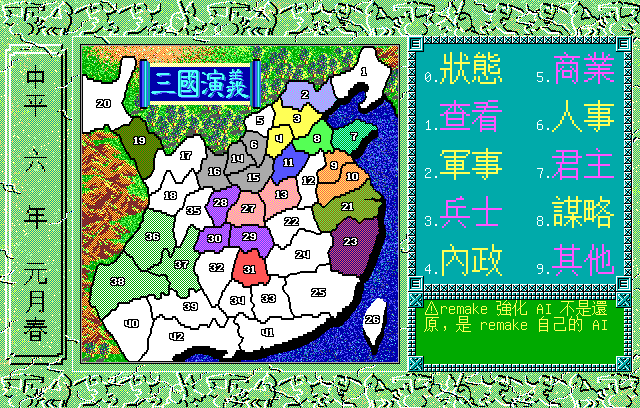
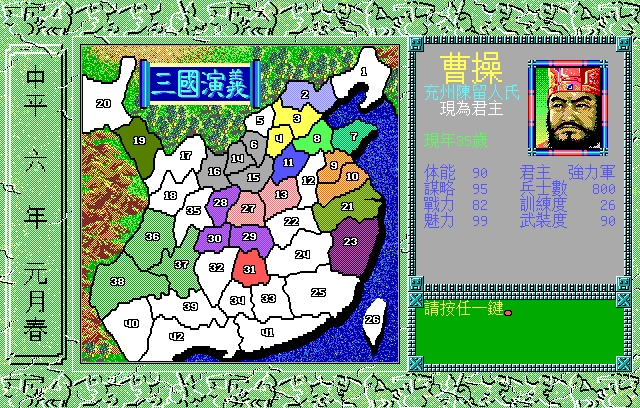
docs: 展示 remake 原貌與 HD 截圖

Changed region(s): [[0.625, 0.0882, 1.0, 0.8235]]

diff --git a/WORKLOG.md b/WORKLOG.md
@@ -1,5 +1,32 @@
 # 工作歷程
 
+## 2026-10-04 README 原貌與高清展示
+
+使用者要求在 README 展示 remake 原貌與 HD 截圖。命中 README 標準、文件職責與公開閘門，已讀取相應契約。沿用 `docs/images/`，只加入正式視窗的完整執行期展示圖；原版資料、獨立素材、生成原圖及完整提示詞維持本機。
+
+擷取入口為 `workplace/capture-readme-hd.py`，正常片頭、劇本 001、單人曹操及難度 5，經查看人物、出兵與合法紮寨，於同一個玩家停點切換原貌／B 高清。輸出及完整操作收據保存於 `workplace/hd-window/player/readme-hd/`；公開四圖為 `docs/images/remake-main.png`、`remake-main-hd.png`、`remake-battle.png`、`remake-battle-hd.png`。不以展示圖宣稱原版對拍或整份 HD 完成。
+
+首輪人物卡通過，接續戰場鍵序卻走到其他選單。失敗截圖與收據保留於 `workplace/hd-window/player/readme-hd-first/`。擷取腳本改為另一個正常新局走既有戰場鍵序；每一對仍在同一視窗與停點切換 Theme，不改正式遊戲。
+
+獨立圖檔、README 連結與公開範圍檢查入口為 `workplace/verify-readme-hd.py`，收據為 `workplace/verify-readme-hd.json`。這次的展示圖例外限四個正式執行期 PNG 及其固定雜湊，不放入原始素材或高清素材包。
+
+新 binary 與前輪不同，查證為 Go 內嵌版本資訊已隨提交改變。改以 124 份正式來源雜湊、鎖版依賴及建置選項核對，另保存 `workplace/hd-window/player/readme-hd/build-info.json`，不宣稱兩輪 binary bytes 相同。
+
+正常 GUI 12/12 通過。獨立回讀核對四張完整 PNG、原生高清肖像及鏡像、人物卡文字與外框、戰場日期及上框，原貌恢復一致；四張已目視確認。README 使用等寬兩欄，點圖可開原生尺寸；五份文件的 248 個相對連結及標題入口通過。連結檢查初次把行內程式碼當連結，排除程式碼後用同一命令乾淨重跑，不列為產品缺陷。本輪只改文件與展示圖，正式程式保持，既有回歸不重跑。
+
+| 展示圖 | SHA-256 |
+|---|---|
[4 lines of base64/hex data omitted]
+
+## 2026-10-04 軟體顯示環境診斷開工
+
+上一輪固定 4× 像素等價維護、208 項回歸、兩版四段正式正常錄影及五份 Issue 同步已完成並推送，main 為 `a8f287c`，屬實際進展。本輪重新核對目前程式、五份 Issue 最新全文、留言及 OPEN 狀態，沒有殘留 san1 容器。命中復古重製、規格閘門與文件職責，載入契約後建立 [021 §6.34 DRAFT](docs/spec/021-hd-art.md#634-軟體顯示驅動與-cpu-配額) 並掛入索引。先依 Mesa 官方契約比較預設及兩個軟體渲染執行緒、實際 CPU 配額與限流，不改正式速度、等待或解析度。首批合併輸出被截斷，已分開讀取所需契約；文件職責與技能全文完整讀取。
+
+固定八組完成，實際 Mesa 執行緒分別 14／2，正常配額皆為 4 CPU，全部 22 相位及 279 次 Update 通過。預設高清 4.638／4.893 秒，兩個執行緒為 9.988／8.941 秒；指定組消除限流卻變慢，不採用該環境設定。此結果不支持限流是單一真因，正式來源及驗證入口保持，#110 繼續開啟。獨立回讀由 `workplace/verify-hd-perf-v23-delivery.py` 保存至 `workplace/verify-hd-perf-v23-delivery.json`；尚未實作呈現路徑試作，下一步仍須獨立像素等價證據。
+
 ## 2026-10-04 高清播放效能開工
 
 上一輪完成誘敵四幀、兩版正常 31/31 與獨立整包回讀，main 為 `4aaff79`，屬實際進展。本輪核對工作樹與五項 HD Issue 最新全文、留言及 OPEN 狀態，命中復古重製、規格閘門與文件職責路由。建立 [021 §6.33 DRAFT](docs/spec/021-hd-art.md#633-高清播放效能量測) 並掛入索引，先分離 CPU 合成、GPU／顯示器與錄影負載，不降低 4×、跳過動畫或調整等待。首批合併輸出遭截斷，已分批重讀契約；#107 的全文超出原輸出上限，已完整重讀，未改遠端本文。

diff --git a/CONTEXT.md b/CONTEXT.md
@@ -14,7 +14,9 @@
 | 自創君主正常開局 | 修正勢力操縱方漏設玩家及後續名額重複使用第一個範本，依原始人物 346–349 固定綁定。兩版六劇本全部名額、正常選單、玩家控制、領地及存讀後三表相同共十二組通過，全庫回歸通過 | [spec/013 §3.1](docs/spec/013-custom-lord.md#31-名額綁定與啟用) 與 R90 保存證據；dosgolem 原版新君主出現及兩人開局抽驗通過，保留字模排除及 43 格物價差異，不外推加強版原版多人或整回合 parity |
 | 正式配樂播放 | 已移除 `music.Stream` 不完整的 `Seek`；正式靜音改由播放器音量控制，來源照常推進。完整 408 列與 Shift＋Esc 操作下，Linux 原貌五曲、兩版新局、靜音及恢復錄音 10/10 通過；高清模式另有相同範圍的獨立收據 10/10，靜音段全零，兩版新局核對原生高清曹操肖像 | 原貌入口見 [spec/009 §6.1](docs/spec/009-music.md#61-正式音訊串流契約)，高清收據見 [spec/021 §6.13](docs/spec/021-hd-art.md#613-高清模式配樂驗證)；未驗人耳聽辨、高清音效／語音或 Windows／macOS 原生音訊，既有 Release 尚未含此修正 |
 
-2026-09-24 使用者要求公開儲存庫與 Release、含遊戲的完整版、推廣影片，以及只用現行 remake 畫面的 README。公開儲存庫與未簽引擎 Release 已完成；含原版資料的完整版和含原版美術／配樂的影片依既有權利邊界只留本機。README 只保留由現行程式重生的一張主畫面，先前六張舊圖已從目前版本移除。Git 歷史保留原有截圖提交，未改寫既有歷史。
+2026-10-04 使用者要求 README 展示 remake 原貌與 HD。現行 [畫面比較](README.md#remake-原貌與-hd-畫面) 為正式視窗的曹操人物卡與主戰場兩組，分別在同一個玩家停點切換 Theme；原貌 640×408、B 高清 2560×1632。四張完整執行期展示圖可入 Git；原版檔案、獨立美術、高清素材包及生成提示詞仍只留本機。來源、雜湊與重跑收據見 [WORKLOG](WORKLOG.md#2026-10-04-readme-原貌與高清展示)。
+
+2026-09-24 使用者要求公開儲存庫與 Release、含遊戲的完整版、推廣影片，以及只用現行 remake 畫面的 README。公開儲存庫與未簽引擎 Release 已完成；含原版資料的完整版和含原版美術／配樂的影片依既有權利邊界只留本機。當時 README 保留由現行程式重生的一張主畫面，先前六張舊圖已移除，現行展示依上段更新。Git 歷史保留原有截圖提交，未改寫既有歷史。
 
 2026-09-23 文字位置複驗：dosgolem 的開局選擇、主提示、挑人／挑郡、郡資料、人物卡、對白及戰場抽樣均已有同狀態畫面對拍；本輪另加入 16×16 文字列首字格斷言。原版戰術選單第三行的兩字姓名比 remake 右移一格，查明須保留人物表 6 byte 姓名欄的前置空格，正式玩家路徑與對拍共用 `ui.SkirmishPrompt` 修正。郡名／主事者的 32×32 字模墨點有側邊留白差異，不能以首墨格判座標；字區外仍逐像素核對。此收據限原版 `AA.EXE` 的抽樣畫面，不涵蓋所有文字、加強版獨立畫面或完整戰術玩家流程；詳見 `docs/playtest/03`。
 

diff --git a/README.md b/README.md
@@ -8,11 +8,16 @@
 
 戰爭從出兵、編隊與攜帶補給開始；進入戰場後，可以親自指揮部隊移動、攻擊、單挑與用計，也可以交給電腦處理。勝負會接回戰略地圖，影響城池、武將與下一回合。這個重製版同時保留原版與加強版已驗證的規則差異，提供繁中原文及英、日介面。
 
-## 現行 remake 畫面
+## remake 原貌與 HD 畫面
 
-![現行 remake 的劇本一主畫面：州郡地圖與十項指令](docs/images/remake-main.png)
+保留原版版面，人物與美術採 B 寫實手繪高清化。下列兩組由正式 remake 視窗在同一個玩家停點切換 Theme 擷取，點圖可看原生尺寸。
 
-這張是現行 remake 程式以劇本 001 繪製的主畫面，**不是 DOS 原版截圖**。地圖與美術由程式在本機讀取玩家自備的原版資料；文字使用重製版字庫。圖片展示目前畫面，不代表戰役全程或每一段文字都已完成逐格對拍；實測範圍見[畫面對拍紀錄](docs/playtest/03-screen-parity.md)。
+| 場景 | remake 原貌，640×408 | B 高清，2560×1632 |
+|---|---|---|
+| 主畫面與曹操人物卡 | <a href="docs/images/remake-main.png"><img src="docs/images/remake-main.png" width="360" alt="remake 原貌：劇本一主畫面與曹操人物卡"></a> | <a href="docs/images/remake-main-hd.png"><img src="docs/images/remake-main-hd.png" width="360" alt="B 高清：相同主畫面與曹操人物卡"></a> |
+| 主戰場，陳留出兵攻鄴郡 | <a href="docs/images/remake-battle.png"><img src="docs/images/remake-battle.png" width="360" alt="remake 原貌：主戰場正常指令停點"></a> | <a href="docs/images/remake-battle-hd.png"><img src="docs/images/remake-battle-hd.png" width="360" alt="B 高清：相同主戰場，高清人物、地形與天候"></a> |
+
+截圖使用劇本 001、單人曹操、難度 5。原貌讀取本機合法持有的原版美術，HD 使用本機高清素材包，文字使用重製版字庫。**HD 計畫仍在進行**；圖示呈現目前成果，驗收範圍見[高清規格](docs/spec/021-hd-art.md)與[畫面對拍紀錄](docs/playtest/03-screen-parity.md)。
 
 公開原始碼與引擎封包不包含原版執行檔、資料、美術、音樂或字型。遊玩時需自行提供合法持有的原版資料，使用方式見下方「需要原版」。
 
@@ -82,7 +87,7 @@ JSON、配樂轉成 OGG。
 三組容器載入、EGA 640×408 畫面輸出，全程無頭、決定性。
 
 ```sh
-# Ebiten 視窗：← → 選郡、0–9 指令、Enter 結束這個月、Esc 返回
+# Ebiten 視窗：← → 選郡、0–9 指令、Enter 結束這個月、Shift＋Esc 返回
 # 存檔：其他（9）→ 儲存（2）→ 選一格；開場讀檔用 -load
 tools/go.sh run ./cmd/san1 -root /path/to/三國演義 -faction 0 -ai enhanced \
     -saves ~/.local/share/san1-remake/saves

diff --git a/docs/INDEX.md b/docs/INDEX.md
@@ -80,6 +80,8 @@ dosgolem 對拍  >  執行檔反組譯  >  DOSBox-X 實跑  >  說明書  >  社
 | 戰場地形圖塊的高清來源與疊層 | [spec/021 §6.31](spec/021-hd-art.md#631-主戰場與對戰子畫面的地形圖塊)；READY，EICON 00–14，48×32 至 192×128；正式圖層、正常對戰／快戰 229/229 及寬窄主戰場／查看 80/80 通過，完整私人收據已索引 |
 | 誘敵四張特效的高清來源與步序 | [spec/021 §6.32](spec/021-hd-art.md#632-誘敵的四張特效圖)；READY，4/4 素材、108 項圖層、兩版正常原貌／高清 31/31 及四段完整 22 步通過；[正常 GUI 工具](../tools/verify-hd-lure.sh)，軟體渲染效能另列未完成 |
 | 高清播放速度的瓶頸與等價修正 | [spec/021 §6.33](spec/021-hd-art.md#633-高清播放效能量測)；CONFORMED 限固定 4× 像素等價維護，CPU 高清合成快 5.86–7.04 倍，208 項回歸及兩版四段正式正常錄影通過；整體效能仍待驗 |
+| 軟體顯示驅動與 CPU 配額 | [spec/021 §6.34](spec/021-hd-art.md#634-軟體顯示驅動與-cpu-配額)；DRAFT，八組完整 22 相位；兩個執行緒消除限流卻變慢，不採用，不更改正式等待或解析度 |
+| remake 原貌與 B 高清的展示截圖 | [README 畫面比較](../README.md#remake-原貌與-hd-畫面)；正式視窗的同停點人物卡與主戰場，來源及重跑收據見 [WORKLOG](../WORKLOG.md#2026-10-04-readme-原貌與高清展示) |
 | 哪些地方原版會動 | `re/10`（清單 ＋ 已解的三支）、`re/13` 與 `spec/005`「片頭」（開機片頭）、`spec/010`（轉場與場景圖的 48 個呼叫端）|
 | 被擒的將領怎麼處置、釋放逃去哪、招降來的人紮在哪 | `spec/018`、`mechanics/40` §7 |
 | 幾人玩（0–16）、逐位選君主、多位玩家怎麼輪流下令、示範模式 | `spec/019`、`mechanics/10` §1、`spec/005` §9.4 |
